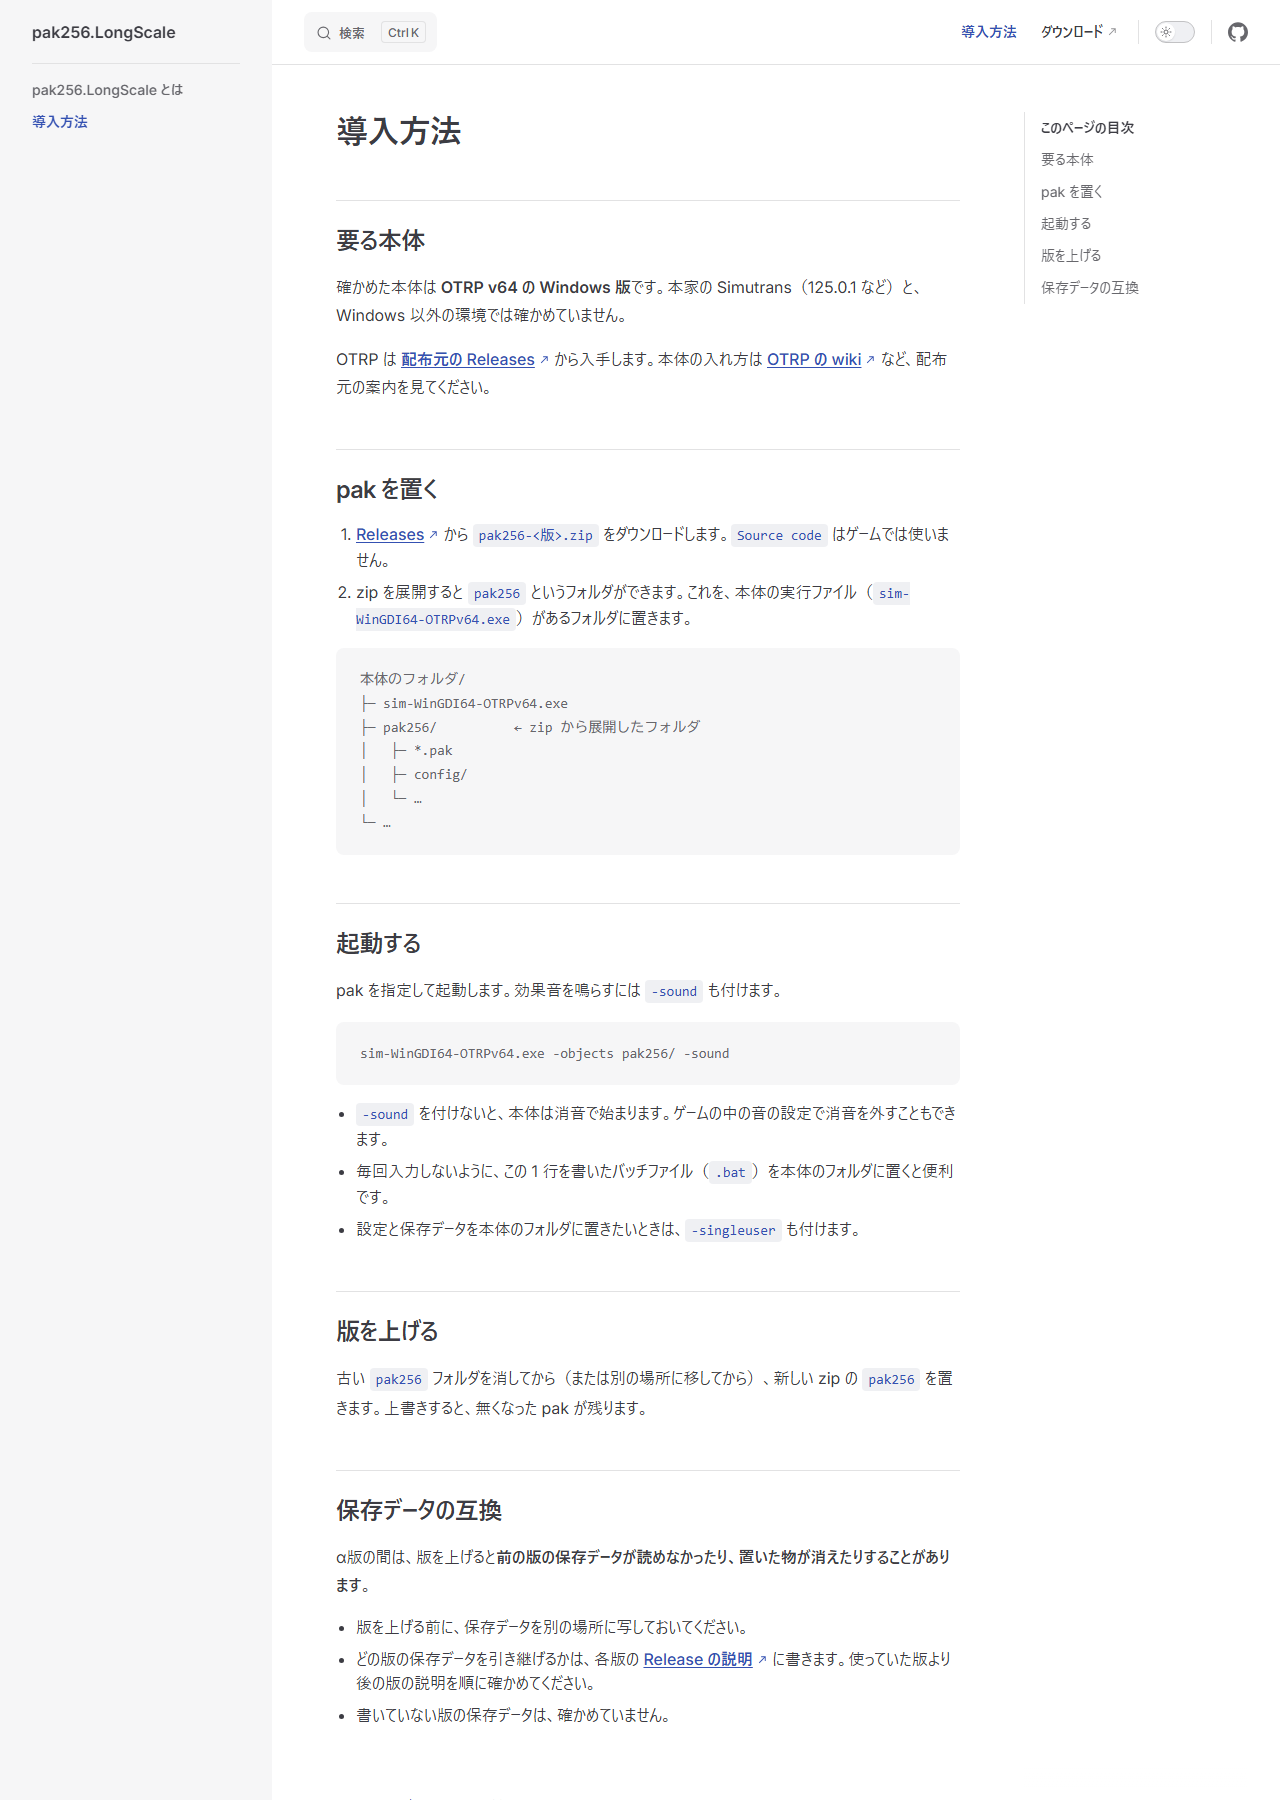
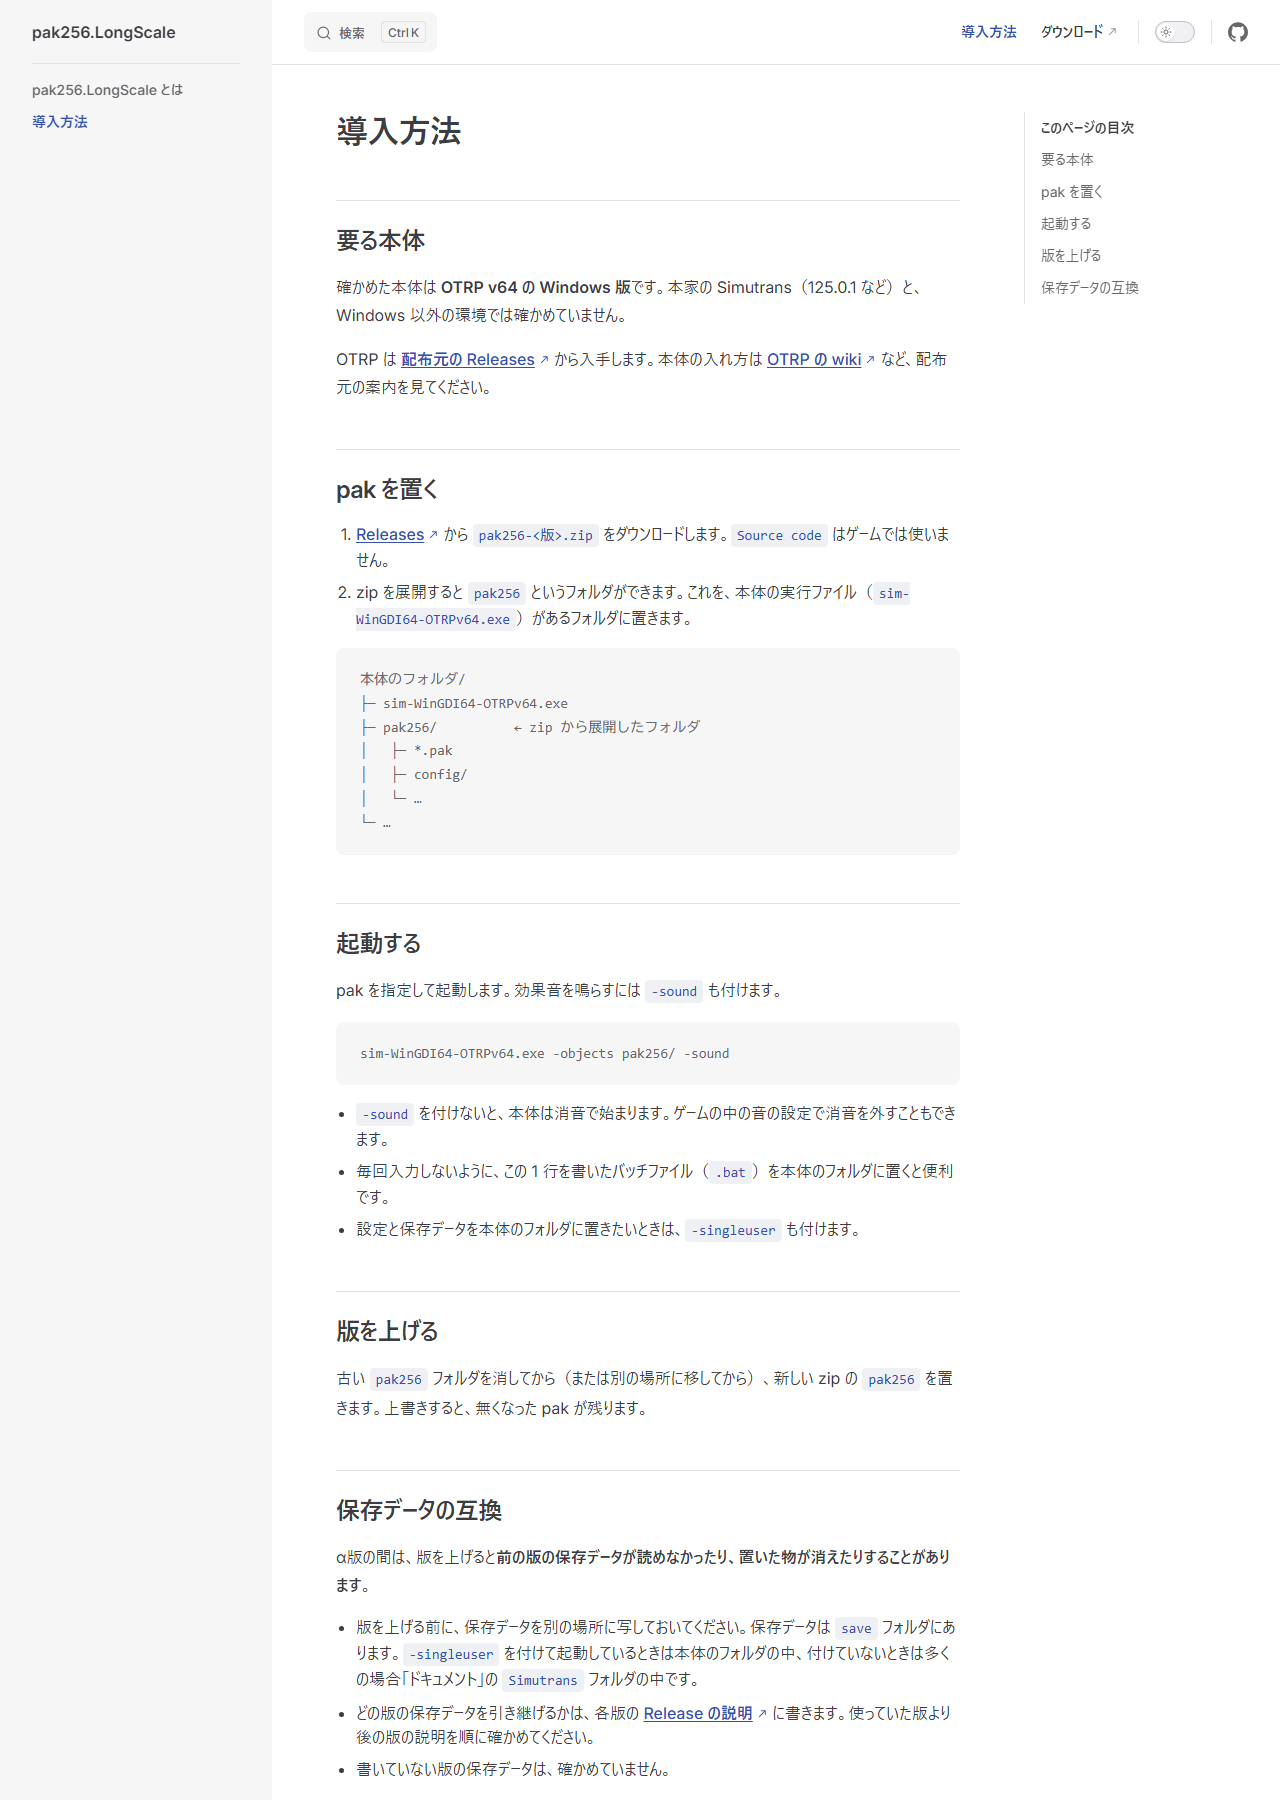
サイトのレビュー対応: configure-pages を外し、保存データの場所を書く (#200)

Changed region(s): [[0.2812, 0.9022, 0.75, 0.9956]]

diff --git a/site/install.md b/site/install.md
@@ -41,6 +41,6 @@ sim-WinGDI64-OTRPv64.exe -objects pak256/ -sound
 
 α版の間は、版を上げると**前の版の保存データが読めなかったり、置いた物が消えたりすることがあります**。
 
-- 版を上げる前に、保存データを別の場所に写しておいてください。
+- 版を上げる前に、保存データを別の場所に写しておいてください。保存データは `save` フォルダにあります。`-singleuser` を付けて起動しているときは本体のフォルダの中、付けていないときは多くの場合「ドキュメント」の `Simutrans` フォルダの中です。
 - どの版の保存データを引き継げるかは、各版の [Release の説明](https://github.com/128-bit-net/pak256/releases) に書きます。使っていた版より後の版の説明を順に確かめてください。
 - 書いていない版の保存データは、確かめていません。
